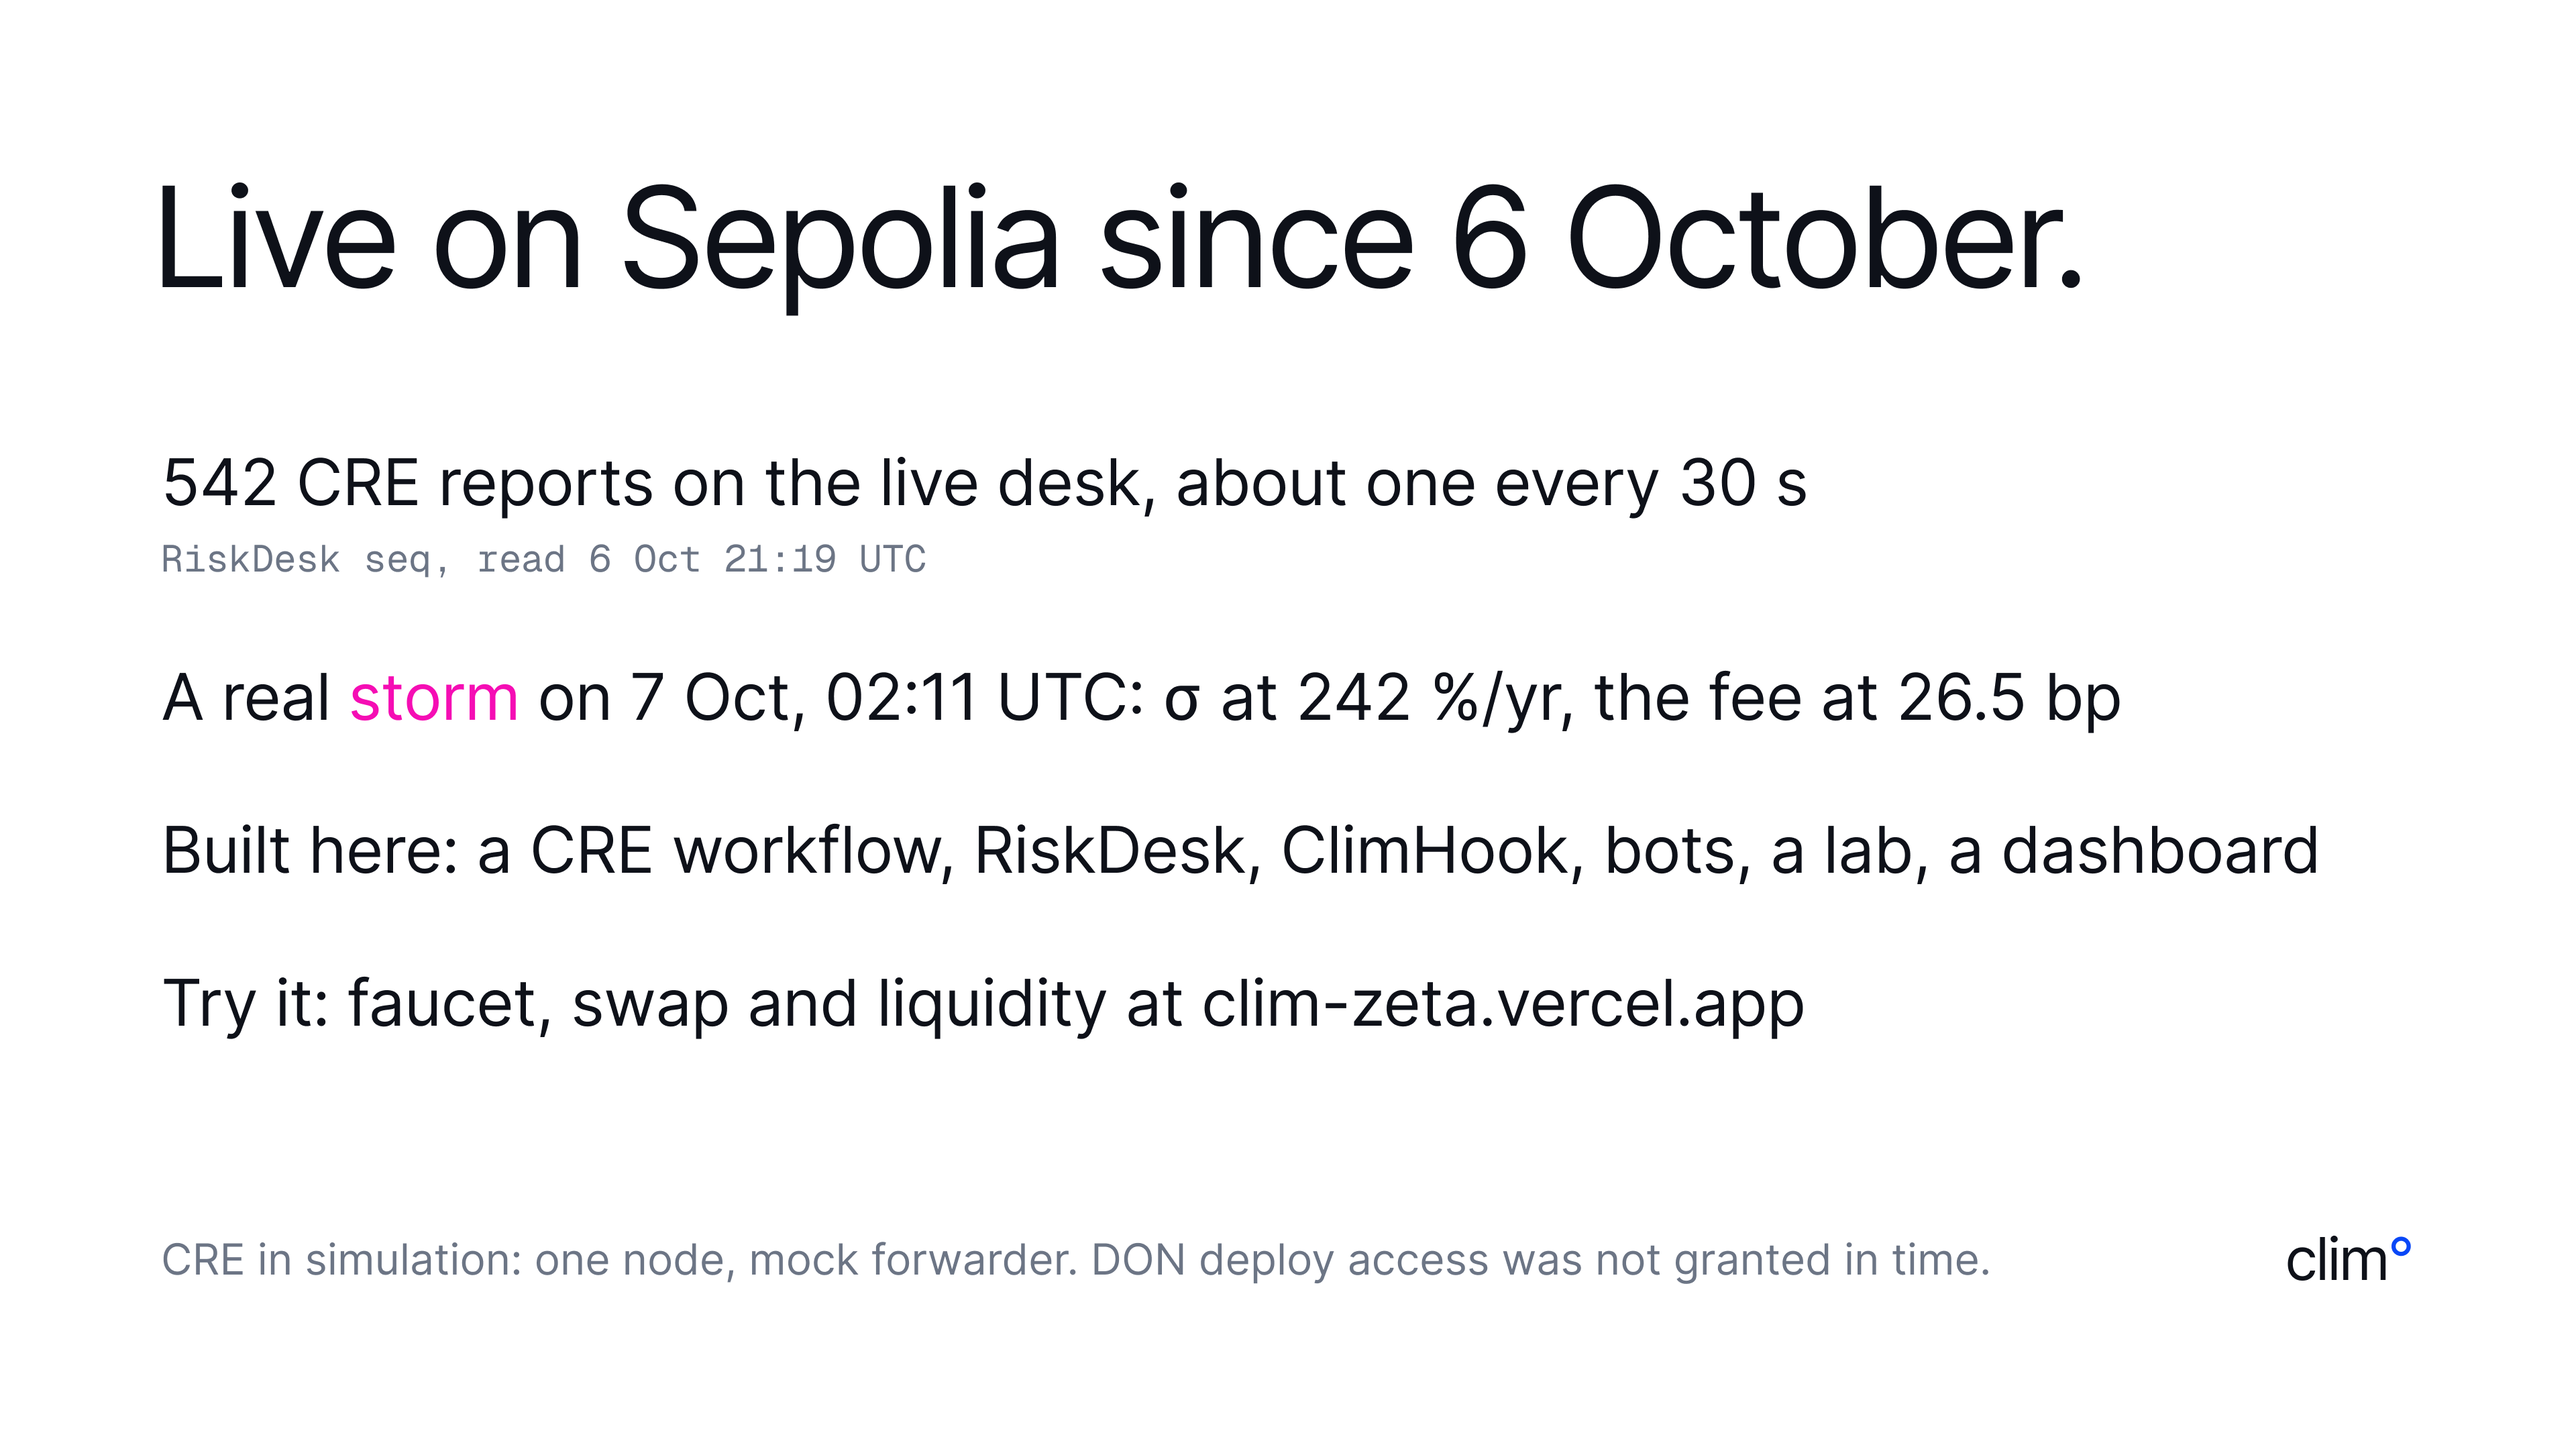
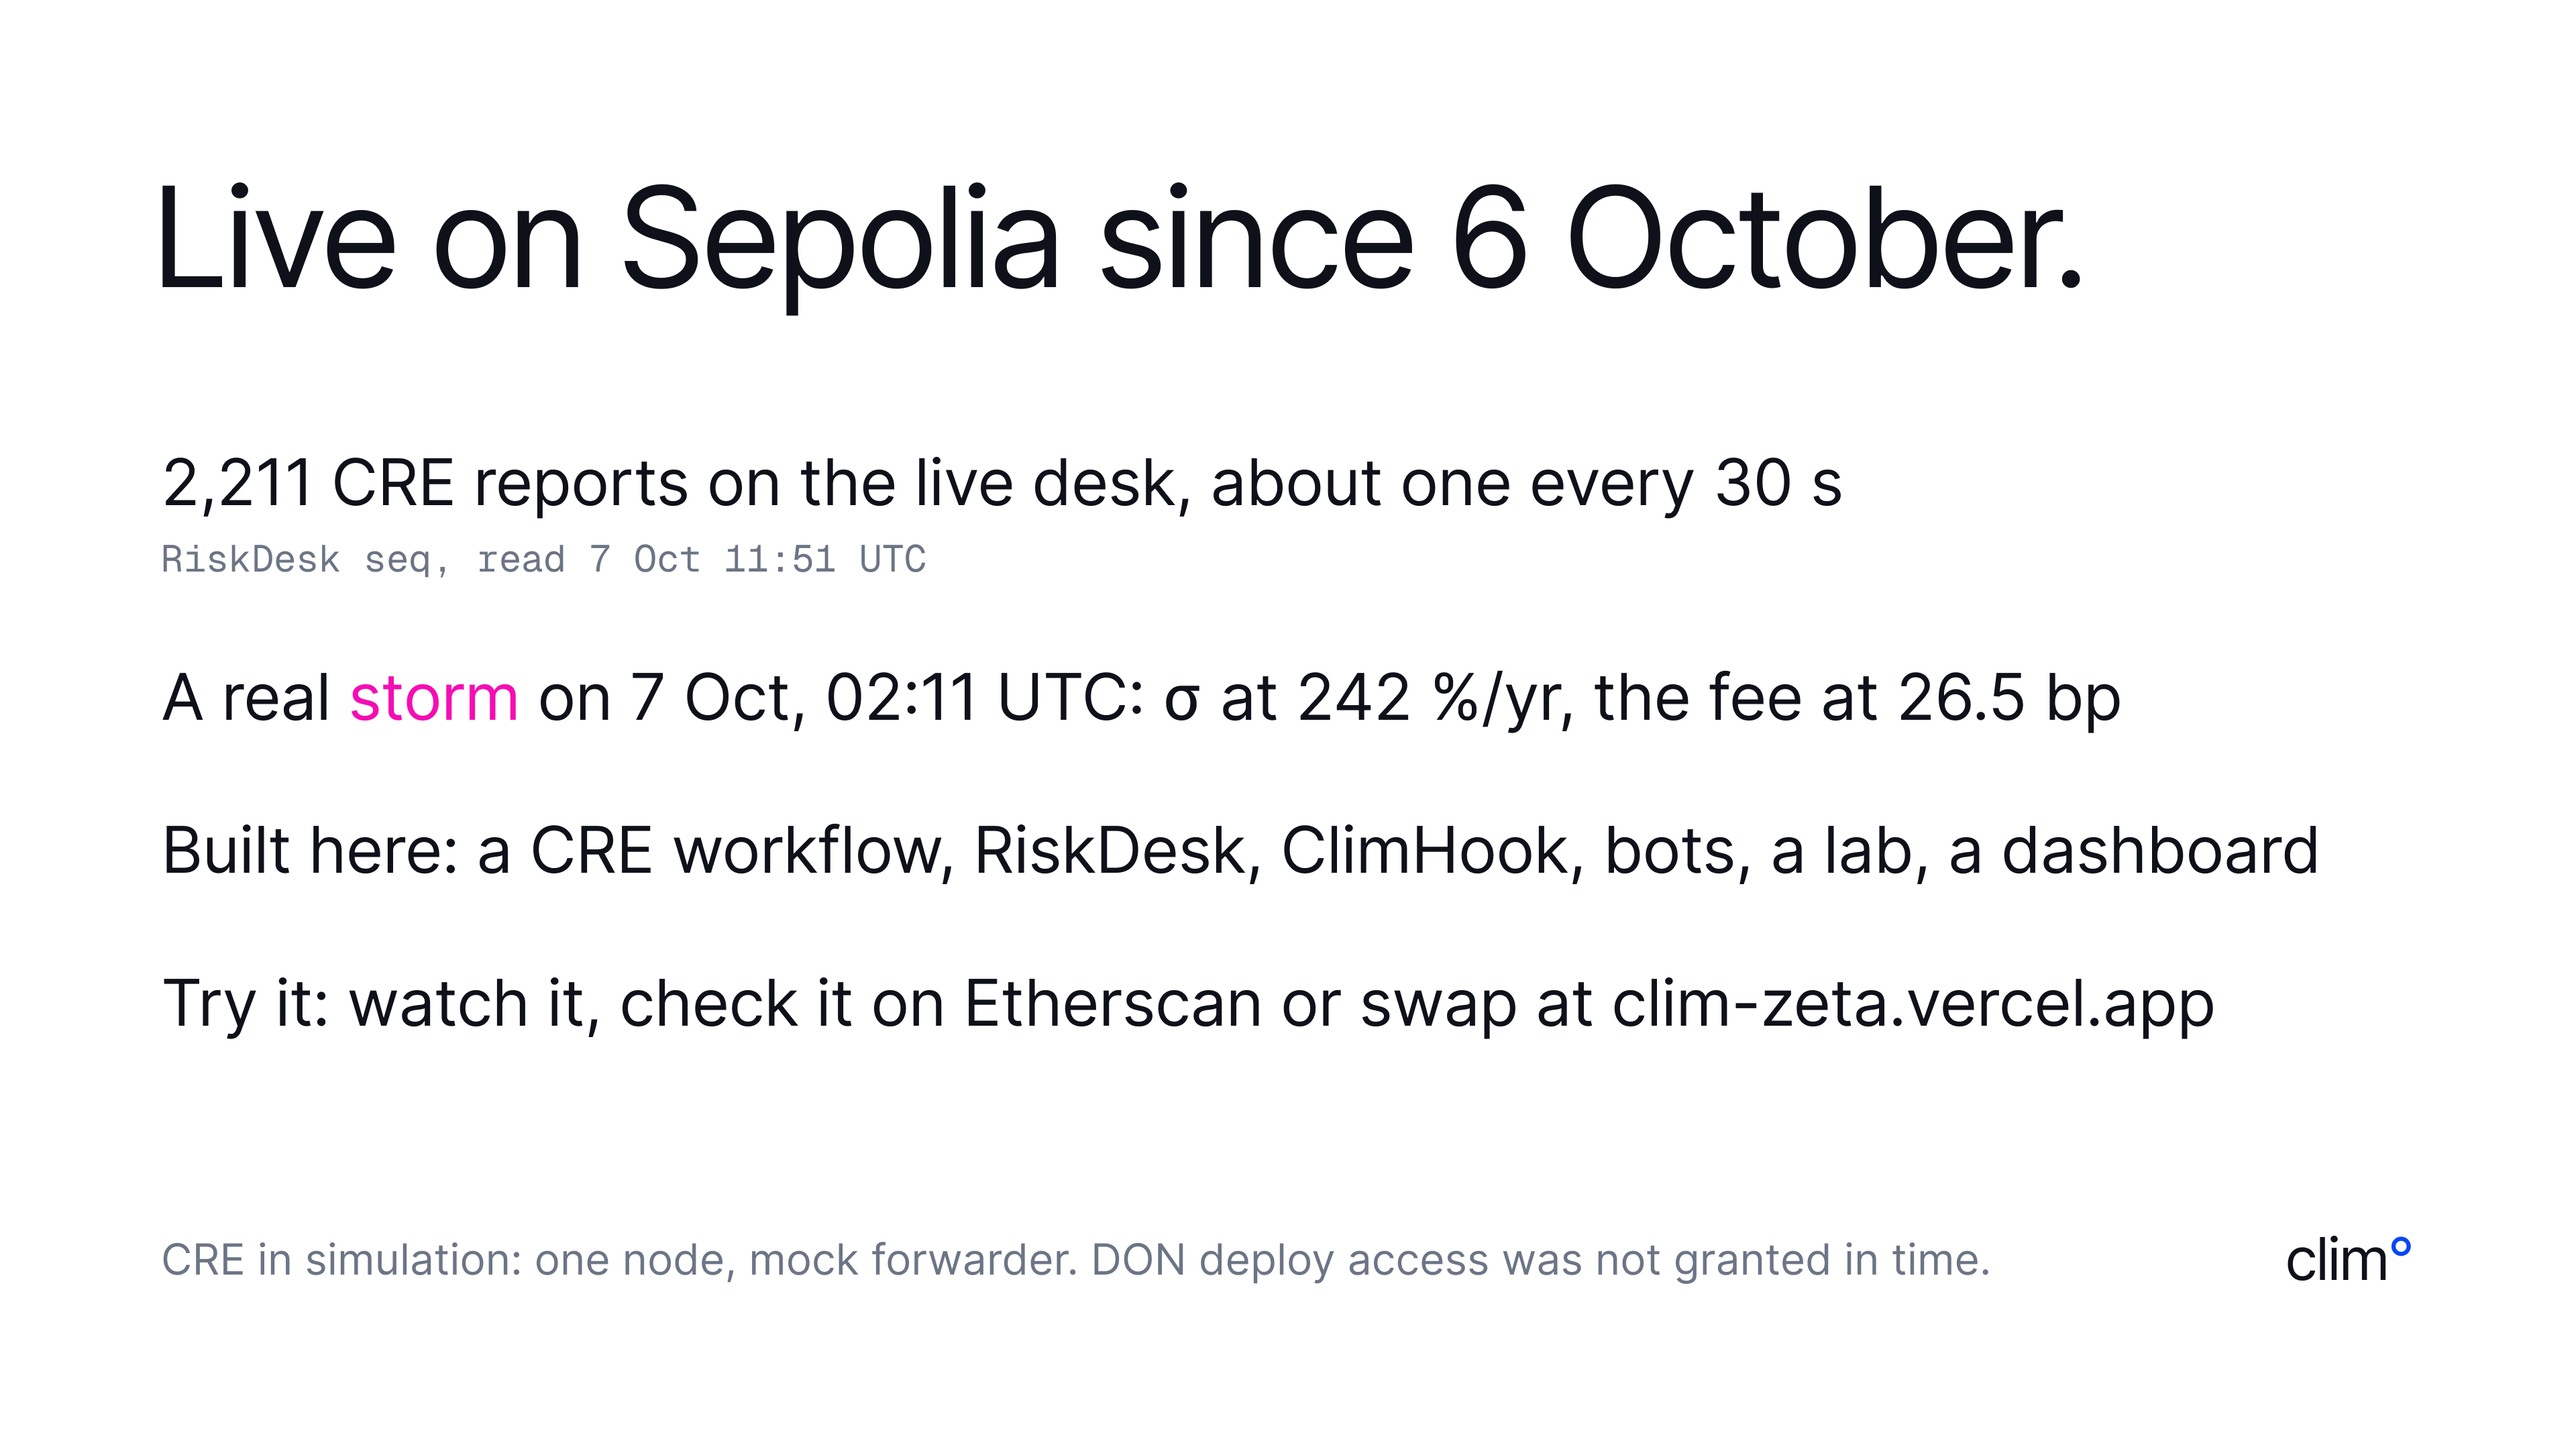
chore(deck): live report count on slide 07, its try-it line points at the guided app
Claude-Session: https://claude.ai/code/session_018zWSbgeUgm6YTcK3tVvbqp

Changed region(s): [[0.0625, 0.3102, 0.7188, 0.4032], [0.125, 0.6824, 0.875, 0.7134]]

diff --git a/docs/superpowers/plans/2026-10-06-clim-06-demo-submission.md b/docs/superpowers/plans/2026-10-06-clim-06-demo-submission.md
@@ -3915,7 +3915,7 @@ cd /Users/fianso/Development/hackathons/clim/docs/submission && npm test 2>&1 | 
 ```
 Expected: `# pass 40`, `# fail 0`.
 
-- [ ] **Step 2: Read the live report count and write `deck/v2/live.json`** **End of session.**
+- [x] **Step 2: Read the live report count and write `deck/v2/live.json`** Done 2026-10-07: seq 2,211 read at 11:51 UTC (`live.json`), written into nodes 204:216 and 204:217 of frame 204:212, slide 07's last line now "Try it: watch it, check it on Etherscan or swap at clim-zeta.vercel.app" (slides.json too), `07-live.png` re-exported at 3840 x 2160 and checked.
 
 Do this right before the final build: the count grows by about 120 an hour while the loop runs. The fifth value of `state()` is `seq`, the number of reports the live desk applied.
 ```bash
@@ -3927,7 +3927,7 @@ cd /Users/fianso/Development/hackathons/clim && D=$(jq -r .riskDesks.live shared
 ```
 Expected: `{ "seq": <n>, "readUtc": "<d Mon HH:MM UTC>" }`, for example `"seq": 624` and `"readUtc": "6 Oct 22:00 UTC"`. The builder fills `{{LIVE_SEQ}}` (with a thousands comma, for example `1,234`) and `{{LIVE_SEQ_READ}}` in the slide text and notes of `slides.json` from this file.
 
-- [ ] **Step 3: Update slide 07 in Figma, then re-export it** **End of session.**
+- [x] **Step 3: Update slide 07 in Figma, then re-export it** Done 2026-10-07: seq 2,211 read at 11:51 UTC (`live.json`), written into nodes 204:216 and 204:217 of frame 204:212, slide 07's last line now "Try it: watch it, check it on Etherscan or swap at clim-zeta.vercel.app" (slides.json too), `07-live.png` re-exported at 3840 x 2160 and checked.
 
 In Figma file `LyeDZ1KdOYws6nTzD8dI76` (group `204:320` "Pres"), put the same two values as `live.json` in slide 07 (frame `204:212`, "2x 07 · What is live"), keeping the rest of each text and the number format of Step 2: `204:216` "LIVE seq" (the count) and `204:217` "LIVE seq read" (the read time). Slide 07 is the only slide with the live count since the 10-slide cut (the old slide 19's nodes were deleted with section `162:2`).
 

diff --git a/docs/sessions/2026-10-07.md b/docs/sessions/2026-10-07.md
@@ -268,3 +268,4 @@ Decisions, feedback and open questions that matter for the code. Non-code notes 
 - (lab) lab/README.md's Fables section shows docs/media/fables-compare.png; `sample_on_blocks` kept (only its test uses it), so the test counts stay; lab 99 passed, 1 skipped (audit r6).
 - (submission) README License and its plan 06 mirror: the arbitrage router's own files (`PoolSwapTest`, `PoolTestBase`) are among v4-core's UNLICENSED test routers, which Uniswap deploys itself on Sepolia (`0x9B6b46e2…6eEe`); only its four BUSL-1.1 libraries fall under BUSL's non-production grant (audit r6).
 - (submission) README License and its plan 06 mirror: `ua-parser-js` 2 is AGPL-3.0-or-later, as its package.json and app/THIRD_PARTY_NOTICES.md say (audit r6).
+- (deck) Final live count on slide 07: seq 2,211 read at 11:51 UTC on 2026-10-07 (live.json, Figma nodes 204:216 and 204:217), and its last line now points at the app's guided path ("Try it: watch it, check it on Etherscan or swap at clim-zeta.vercel.app"); plan 06 Task 17 Steps 2 and 3 done; Step 4 (final build with the stage video) is the maintainer's `npm run deck`.
